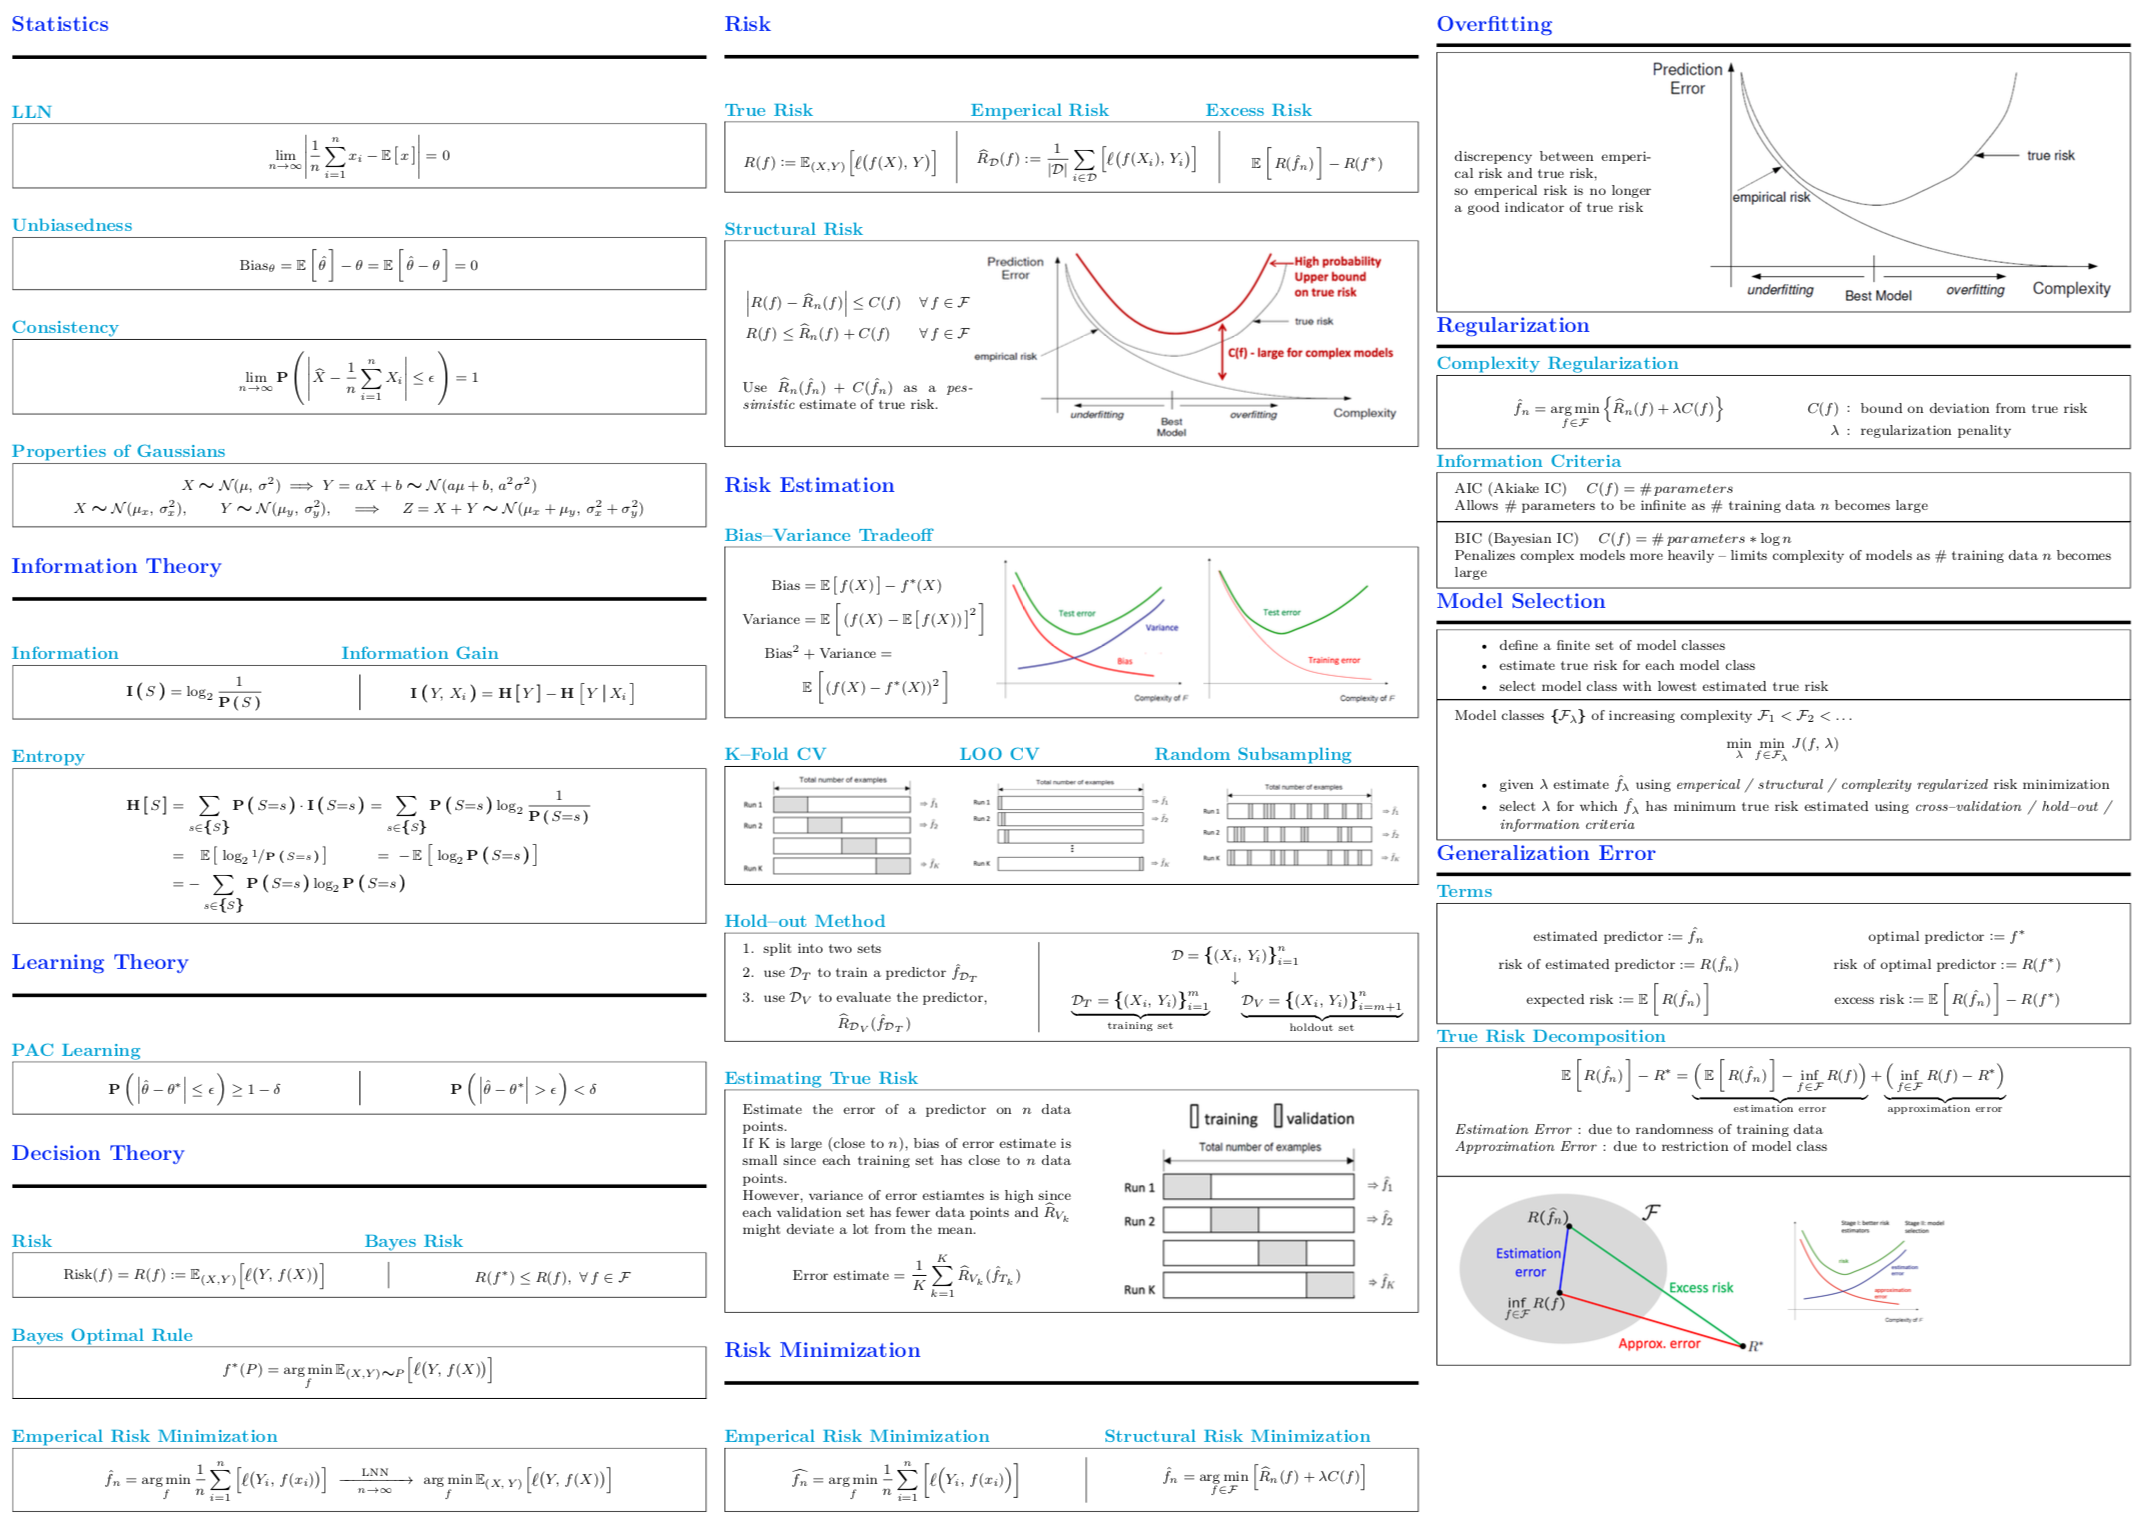
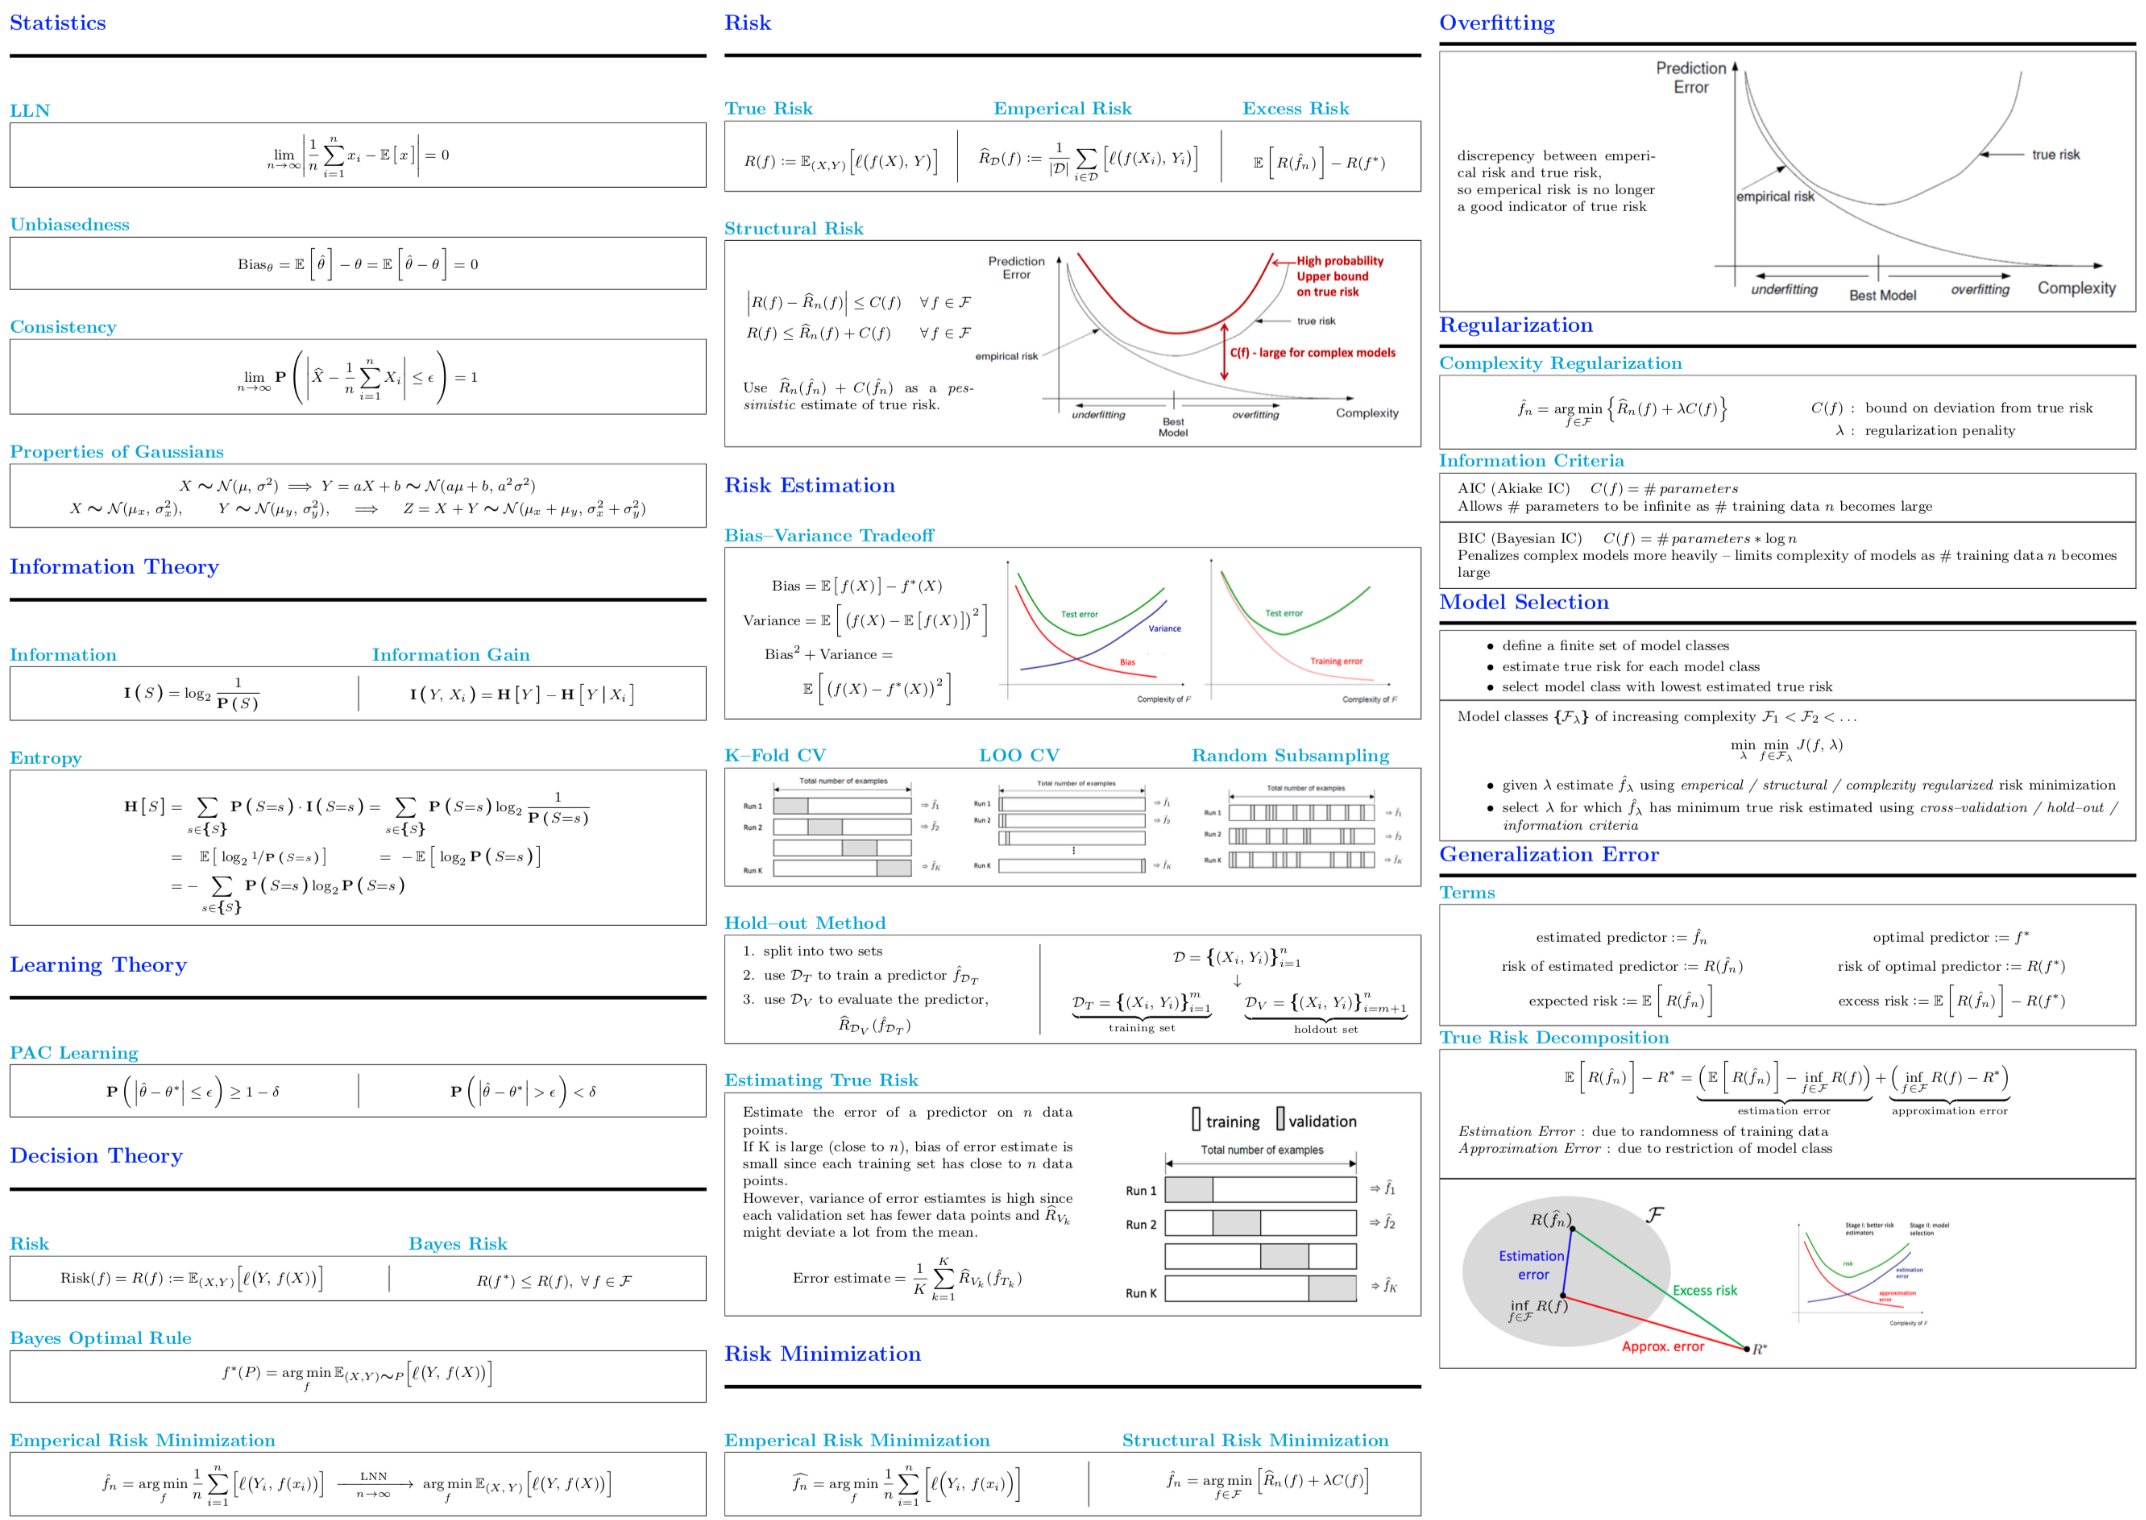
updated screenshots / link to reflect typo fixes

diff --git a/README.md b/README.md
@@ -20,7 +20,7 @@ If you decide to use this cheatsheet, I suggest that you refactor it for yoursel
 
 ## Download
 If you just want the pdf without the hassle of re-compiling the source. Here you go:
-[Dropbox Link](http://www.dropbox.com/s/o1k4ue4akaewdgo/10-701-cheatsheet.pdf)
+[Dropbox Link](https://www.dropbox.com/s/ntjnj9szjvyqos3/10-701-cheatsheet.pdf)
 
 ## Compiling
 
